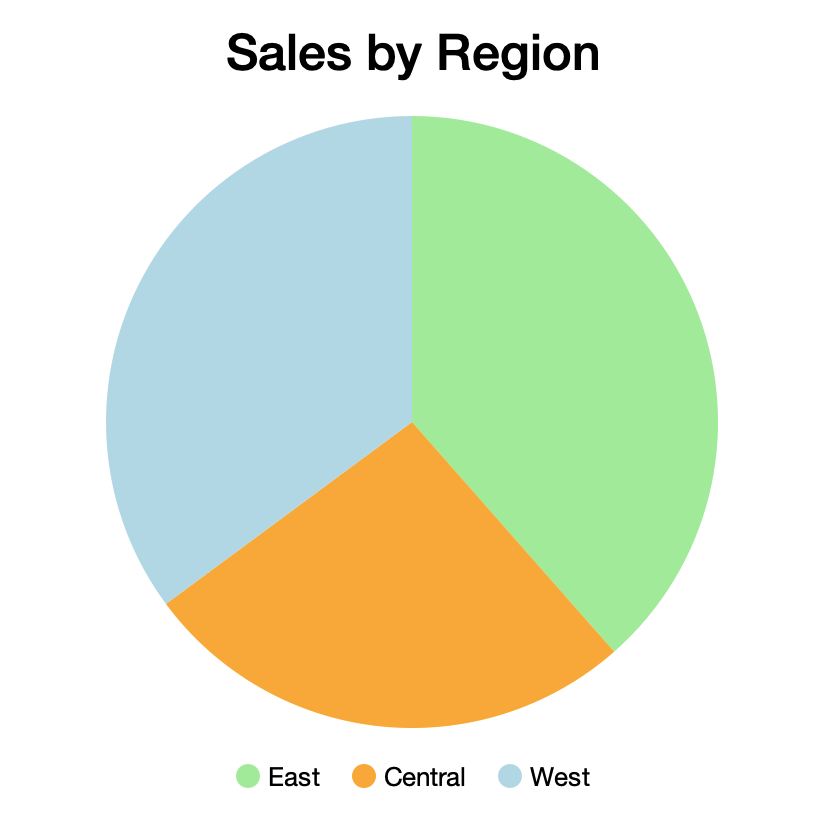
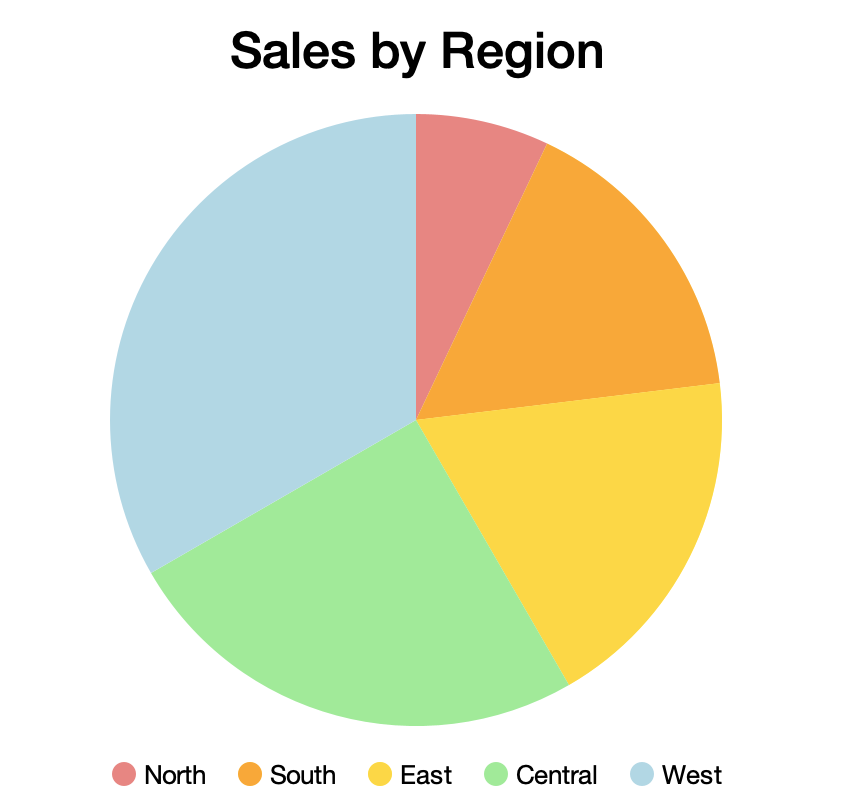
Update charts.

diff --git a/sierra-test/src/main/java/org/httprpc/sierra/test/ChartsTest.java b/sierra-test/src/main/java/org/httprpc/sierra/test/ChartsTest.java
@@ -74,15 +74,31 @@ public class ChartsTest extends JFrame implements Runnable {
     }
 
     private List<DataSet<Month, Double>> createCategoryDataSets() {
-        var eastDataSet = new DataSet<Month, Double>("East", UILoader.getColor("light-green"));
+        var northDataSet = new DataSet<Month, Double>("North", UILoader.getColor("light-coral"));
 
-        eastDataSet.setDataPoints(sortedMapOf(
-            entry(Month.JANUARY, 150.0),
-            entry(Month.FEBRUARY, 10.0),
-            entry(Month.MARCH, 125.0)
+        northDataSet.setDataPoints(sortedMapOf(
+            entry(Month.JANUARY, 30.0),
+            entry(Month.FEBRUARY, 5.0),
+            entry(Month.MARCH, 20.0)
         ));
 
-        var centralDataSet = new DataSet<Month, Double>("Central", UILoader.getColor("orange"));
+        var southDataSet = new DataSet<Month, Double>("South", UILoader.getColor("orange"));
+
+        southDataSet.setDataPoints(sortedMapOf(
+            entry(Month.JANUARY, 40.0),
+            entry(Month.FEBRUARY, 10.0),
+            entry(Month.MARCH, 75.0)
+        ));
+
+        var eastDataSet = new DataSet<Month, Double>("East", UILoader.getColor("gold"));
+
+        eastDataSet.setDataPoints(sortedMapOf(
+            entry(Month.JANUARY, 60.0),
+            entry(Month.FEBRUARY, 5.0),
+            entry(Month.MARCH, 80.0)
+        ));
+
+        var centralDataSet = new DataSet<Month, Double>("Central", UILoader.getColor("light-green"));
 
         centralDataSet.setDataPoints(sortedMapOf(
             entry(Month.JANUARY, 60.0),
@@ -98,7 +114,7 @@ public class ChartsTest extends JFrame implements Runnable {
             entry(Month.MARCH, 140.0)
         ));
 
-        return listOf(eastDataSet, centralDataSet, westDataSet);
+        return listOf(northDataSet, southDataSet, eastDataSet, centralDataSet, westDataSet);
     }
 
     private TimeSeriesChart<Integer, Double> createTimeSeriesChart() {
@@ -111,8 +127,8 @@ public class ChartsTest extends JFrame implements Runnable {
 
     private List<DataSet<Integer, Double>> createTimeSeriesDataSets() {
         var colors = listOf(
+            UILoader.getColor("light-coral"),
             UILoader.getColor("light-green"),
-            UILoader.getColor("orange"),
             UILoader.getColor("light-blue")
         );
 

diff --git a/sierra/src/main/java/org/httprpc/sierra/charts/BarChart.java b/sierra/src/main/java/org/httprpc/sierra/charts/BarChart.java
@@ -171,8 +171,10 @@ public class BarChart<K extends Comparable<K>, V extends Number> extends Chart<K
             return;
         }
 
+        var n = dataSets.size();
+
         var barSpacing = verticalGridLineSpacing * 0.05;
-        var barWidth = (verticalGridLineSpacing - (verticalGridLineStrokeWidth + barSpacing * (keyCount + 1))) / keyCount;
+        var barWidth = (verticalGridLineSpacing - (verticalGridLineStrokeWidth + barSpacing * (n + 1))) / n;
 
         var barX = (double)verticalGridLineStrokeWidth;
 

diff --git a/README.md b/README.md
@@ -473,7 +473,7 @@ See [ActivityIndicatorTest.java](sierra-test/src/main/java/org/httprpc/sierra/te
 ### Charts
 The `ChartPane` component displays a chart:
 
-<img src="README/charts.png" width="412px"/>
+<img src="README/charts.png" width="422px"/>
 
 `ChartPane` is localized. See [ChartsTest.java](sierra-test/src/main/java/org/httprpc/sierra/test/ChartsTest.java) for more information.
 
